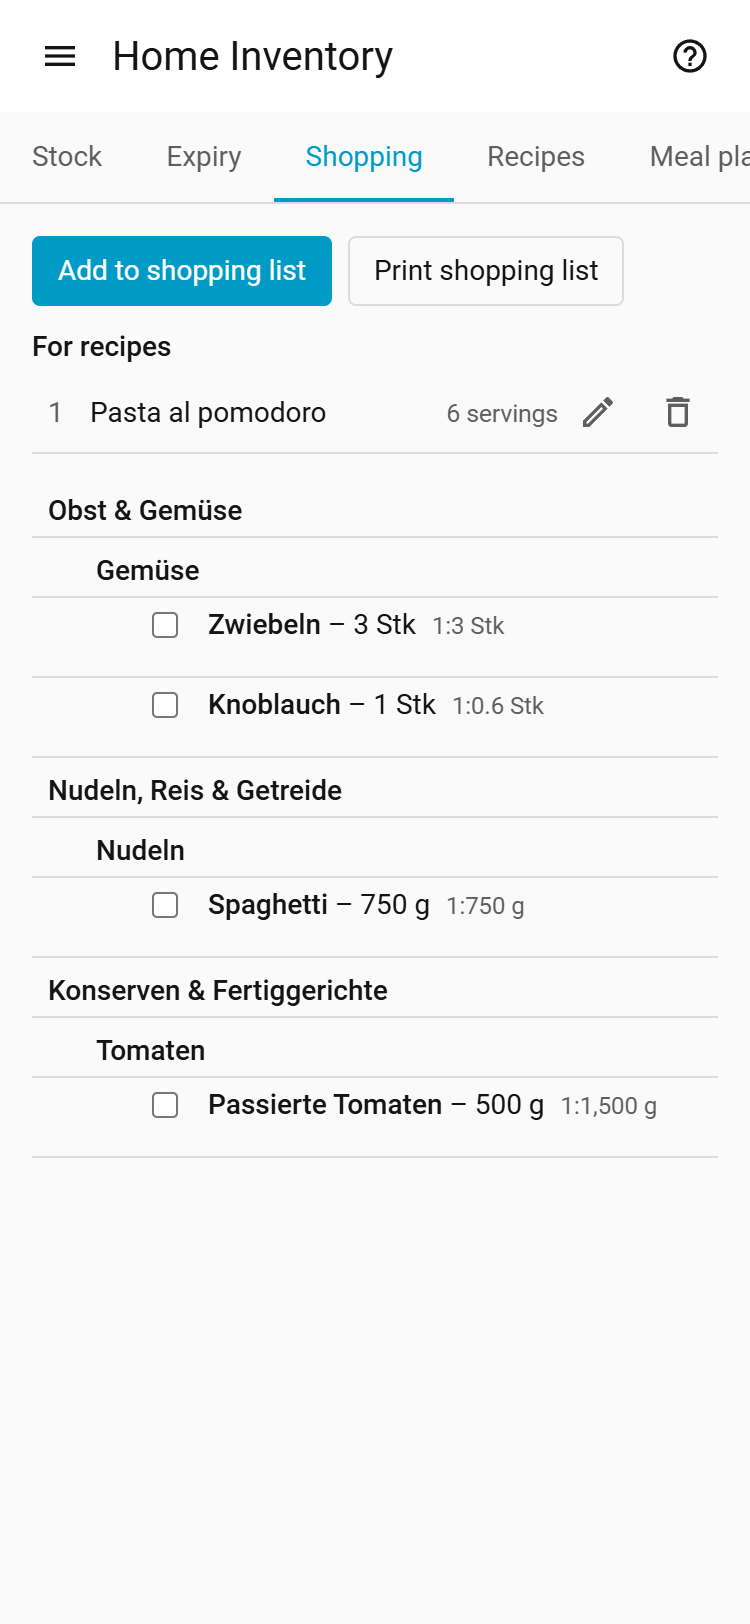
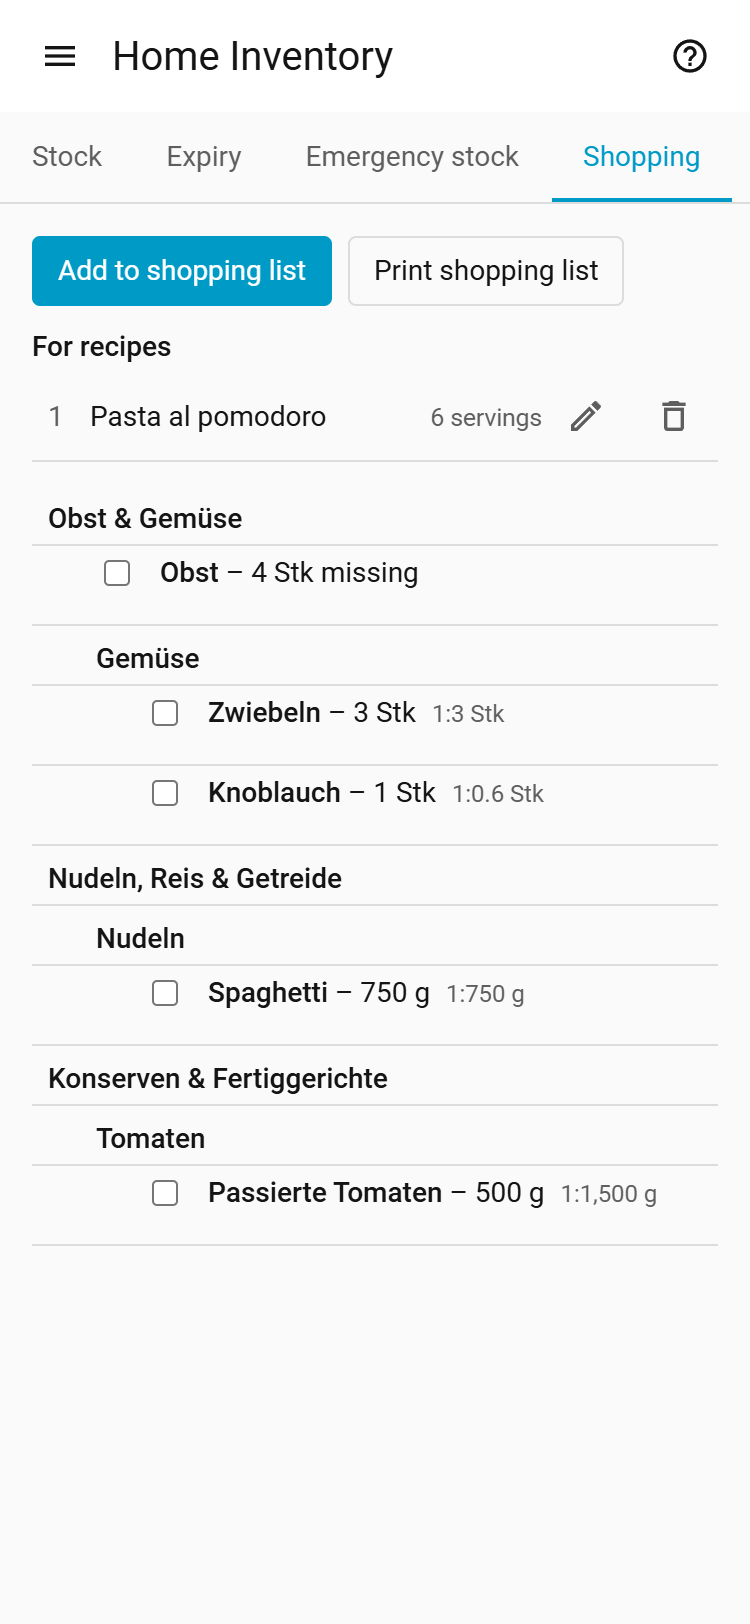
Add guide screenshots for stocktaking, history, emergency stock, settings and receipt import

diff --git a/frontend/e2e/screenshots.docs.ts b/frontend/e2e/screenshots.docs.ts
@@ -1,4 +1,4 @@
-import { apiPage, openPage, remove, ws } from "./helpers";
+import { apiPage, openTab, panelConfig, remove, ws } from "./helpers";
 import { expect, test, type Page } from "./fixtures";
 
 // Screenshots for the user guide (docs/images/<name>-<theme>.png), at phone width in light and
@@ -13,11 +13,21 @@ const day = (offset: number) => {
 };
 const monday = -((new Date().getDay() + 6) % 7); // the week view starts on Monday
 
+// exact tab name: "Stock" is also part of "Emergency stock"
+const openPage = async (page: Page, path: string, tab: string) => {
+  await page.goto(path);
+  await expect(page.getByRole("tab", { name: tab, exact: true })).toHaveAttribute(
+    "aria-selected",
+    "true",
+  );
+};
+
 type Row = { id: number; name: string };
 const products: number[] = [];
 const meals: number[] = [];
 let recipeId: number | undefined;
 let canningId: number | undefined;
+let receipt: unknown; // stubbed answer of the receipt reading (the real AI is never called)
 
 test.beforeAll(async ({ browser }) => {
   const api = await apiPage(browser);
@@ -65,6 +75,23 @@ test.beforeAll(async ({ browser }) => {
   await bookIn("Tomatenmark", "Tomatenmark", [200, "g"], 3, 400, cupboard);
   await bookIn("Passierte Tomaten", "Passierte Tomaten", [500, "g"], 2, 300, cupboard);
   await bookIn("Basmatireis", "Basmatireis", [1, "kg"], 1, 500, cupboard);
+
+  const line = (text: string, name: string, i: number, packages: number, category: string) => ({
+    text,
+    name,
+    packages,
+    product_id: products[i],
+    candidates: [{ id: products[i], name, brand: null, shelf_days: null }],
+    category_id: cat(category),
+  });
+  receipt = {
+    store: "Supermarkt",
+    items: [
+      line("VOLLMILCH 1,5%", "Vollmilch 1,5 %", 0, 2, "Milch"),
+      line("BASMATI REIS 1KG", "Basmatireis", 5, 1, "Basmatireis"),
+      line("TOMATENMARK 200G", "Tomatenmark", 3, 3, "Tomatenmark"),
+    ],
+  };
 
   const canning = (await ws(api, {
     type: "home_inventory/canning_save",
@@ -163,6 +190,8 @@ const TABS = {
     recipes: "Rezepte",
     plan: "Speiseplan",
     canning: "Haltbarmachen",
+    emergency: "Notvorrat",
+    settings: "Einstellungen",
   },
   en: {
     stock: "Stock",
@@ -171,6 +200,8 @@ const TABS = {
     recipes: "Recipes",
     plan: "Meal plan",
     canning: "Preserving",
+    emergency: "Emergency stock",
+    settings: "Settings",
   },
 };
 
@@ -181,7 +212,10 @@ for (const lang of ["de", "en"] as const)
       const tab = TABS[lang];
       const shot = (page: Page, name: string) =>
         page.screenshot({ path: `${OUT}/${name}-${lang}-${theme}.png`, animations: "disabled" });
-      test(`guide screenshots (${lang}, ${theme})`, async ({ page }) => {
+      test(`guide screenshots (${lang}, ${theme})`, async ({ page, wsStub }) => {
+        test.setTimeout(180_000); // the receipt step runs the OCR once
+        await page.context().route("**/cdn.jsdelivr.net/**", (route) => route.abort());
+        wsStub("home_inventory/receipt_read", receipt);
         await page.emulateMedia({ colorScheme: theme });
         // panel language, dates and numbers of the guide (HA keeps the language per browser)
         await page.addInitScript(
@@ -224,6 +258,67 @@ for (const lang of ["de", "en"] as const)
         await openPage(page, "/home_inventory/canning", tab.canning);
         await expect(page.getByText("Erdbeermarmelade").first()).toBeVisible();
         await shot(page, "canning");
+
+        // Stocktaking: the cupboard with one product counted.
+        await openPage(page, "/home_inventory/stock", tab.stock);
+        await page.getByTestId("stocktake-start").click();
+        await page.getByTestId("stocktake-location").selectOption({ label: "Vorratsschrank" });
+        await expect(page.getByTestId("stocktake-row").first()).toBeVisible();
+        await page.getByTestId("code-input").fill("Tomatenmark");
+        await page.getByTestId("code-input").press("Enter");
+        await expect(
+          page.getByTestId("stocktake-row").filter({ hasText: "Tomatenmark" }),
+        ).toContainText(/1\D+3/);
+        await shot(page, "stocktake");
+
+        await openPage(page, "/home_inventory/history", tab.stock);
+        await page.getByTestId("history-from").fill(day(0)); // only today's demo bookings
+        await expect(page.getByText("Spaghettoni")).toHaveCount(0);
+        await expect(page.getByTestId("history-action").first()).toBeVisible();
+        await shot(page, "history");
+
+        // Optional modules and external services are switched on the way the options would.
+        await openPage(page, "/home_inventory/stock", tab.stock);
+        await panelConfig(page, {
+          modules: ["shopping", "recipes", "plan", "canning", "emergency"],
+        });
+        await openTab(page, tab.emergency);
+        await expect(page.getByTestId("emergency-supply")).toBeVisible();
+        await shot(page, "emergency");
+
+        await openPage(page, "/home_inventory/settings/categories", tab.settings);
+        await expect(page.getByTestId("settings-row").first()).toBeVisible();
+        await shot(page, "settings");
+
+        await openPage(page, "/home_inventory/stock", tab.stock);
+        await panelConfig(page, { external: { receipt_import: true, ai_import: true } });
+        await page.getByTestId("mode-in").click();
+        await page.getByTestId("receipt-import").click();
+        await page.getByTestId("receipt-photo").evaluate(async (input: HTMLInputElement) => {
+          // a white receipt on a dark table, only to get through the scan; the answer is stubbed
+          const c = document.createElement("canvas");
+          c.width = 900;
+          c.height = 700;
+          const g = c.getContext("2d")!;
+          g.fillStyle = "#333";
+          g.fillRect(0, 0, c.width, c.height);
+          g.fillStyle = "#fff";
+          g.fillRect(100, 100, 700, 400);
+          g.fillStyle = "#000";
+          g.font = "28px monospace";
+          g.fillText("SUPERMARKT", 130, 180);
+          const blob = await new Promise<Blob>((done) => c.toBlob((b) => done(b!), "image/png"));
+          const files = new DataTransfer();
+          files.items.add(new File([blob], "bon.png", { type: "image/png" }));
+          input.files = files.files;
+          input.dispatchEvent(new Event("change"));
+        });
+        await expect(page.getByTestId("camera-apply")).toBeEnabled({ timeout: 60_000 });
+        await page.getByTestId("camera-apply").click();
+        await expect(page.getByTestId("receipt-preview")).toBeVisible();
+        await page.getByTestId("receipt-read").click();
+        await expect(page.getByTestId("receipt-row")).toHaveCount(3, { timeout: 90_000 });
+        await shot(page, "receipt");
       });
     }
   });

diff --git a/docs/guide.de.md b/docs/guide.de.md
@@ -131,6 +131,8 @@ flowchart LR
 
 ## 2a. Kassenbon importieren
 
+<p align="center"><picture><source media="(prefers-color-scheme: dark)" srcset="images/receipt-de-dark.png"><img src="images/receipt-de-light.png" alt="Dialog Kassenbon importieren mit drei erkannten Zeilen" width="300"></picture></p>
+
 Statt jedes Produkt einzeln zu scannen, buchst du einen ganzen Einkauf vom Kassenbon ein. Das geht
 nur, wenn eine KI eingerichtet ist (README, *KI*).
 
@@ -253,6 +255,8 @@ Welche Lagerorte Gefrierorte sind, legst du unter *Einstellungen → Lagerorte* 
 
 ## 4a. Inventur
 
+<p align="center"><picture><source media="(prefers-color-scheme: dark)" srcset="images/stocktake-de-dark.png"><img src="images/stocktake-de-light.png" alt="Inventur im Vorratsschrank mit einem gezählten Produkt" width="300"></picture></p>
+
 Stimmt der Bestand eines Schranks nicht mehr? Zähle ihn mit der Inventur nach.
 
 1. Im **Bestand** auf **Inventur** tippen, dann den **Lagerort** wählen. Die Liste zeigt alles, was laut
@@ -266,6 +270,8 @@ Stimmt der Bestand eines Schranks nicht mehr? Zähle ihn mit der Inventur nach.
    alles als Korrektur: Nicht Gescanntes wird ausgebucht, Gefundenes eingebucht.
 
 ## 4b. Verlauf
+
+<p align="center"><picture><source media="(prefers-color-scheme: dark)" srcset="images/history-de-dark.png"><img src="images/history-de-light.png" alt="Verlauf mit den Buchungen von heute" width="300"></picture></p>
 
 Wer hat wann was gebucht? **Bestand > Verlauf** listet jede Buchung, die neueste zuerst.
 
@@ -301,6 +307,8 @@ stehen oben, bei gleicher Zahl das Rezept mit mehr vorhandenen Zutaten. Ein Tipp
 > eine Benachrichtigung aufs Handy.
 
 ## 5a. Notvorrat
+
+<p align="center"><picture><source media="(prefers-color-scheme: dark)" srcset="images/emergency-de-dark.png"><img src="images/emergency-de-light.png" alt="Tab Notvorrat mit Soll, Ist und Reichweite je Gruppe" width="300"></picture></p>
 
 Der Tab **Notvorrat** (Modul *Notvorrat*, eingeschaltet unter *Einstellungen → Geräte & Dienste → Home Inventory → Konfigurieren → Module*) prüft den Bestand gegen den Notvorrat, den das Bundesamt für Bevölkerungsschutz und Katastrophenhilfe (BBK) empfiehlt: Lebensmittel und Getränke für **zehn Tage**, je Person.
 
@@ -650,6 +658,8 @@ Druckern die Baudrate. **Testbon drucken** prüft die Verbindung beim Speichern.
 Einrichtung (USB an Docker durchreichen) steht im [README](../README.de.md#bondrucker).
 
 ## 9. Kategorien, Produktarten und Vererbung
+
+<p align="center"><picture><source media="(prefers-color-scheme: dark)" srcset="images/settings-de-dark.png"><img src="images/settings-de-light.png" alt="Einstellungen mit der Kategorienliste" width="300"></picture></p>
 
 Der Kategoriebaum hat drei Ebenen: **Hauptkategorie → Kategorie → Produktart**, z. B.
 *Nudeln, Reis & Getreide → Nudeln → Spaghetti*. Produkte hängen meist an einer Produktart.

diff --git a/docs/guide.en.md b/docs/guide.en.md
@@ -133,6 +133,8 @@ flowchart LR
 
 ## 2a. Importing a receipt
 
+<p align="center"><picture><source media="(prefers-color-scheme: dark)" srcset="images/receipt-en-dark.png"><img src="images/receipt-en-light.png" alt="Import receipt dialog with three recognised lines" width="300"></picture></p>
+
 Instead of scanning every product, book in a whole shopping trip from its receipt. This needs an AI
 set up (README, *AI*).
 
@@ -252,6 +254,8 @@ Which locations are freezers is set under *Settings → Locations* with **Freeze
 
 ## 4a. Stocktaking
 
+<p align="center"><picture><source media="(prefers-color-scheme: dark)" srcset="images/stocktake-en-dark.png"><img src="images/stocktake-en-light.png" alt="Stocktaking of the cupboard with one product counted" width="300"></picture></p>
+
 Does the stock of a cupboard no longer match? Count it again with a stocktaking.
 
 1. In **Stock**, tap **Stocktaking**, then pick the **Location**. The list shows everything stored there
@@ -265,6 +269,8 @@ Does the stock of a cupboard no longer match? Count it again with a stocktaking.
    correction: what was not scanned is booked out, what was found is booked in.
 
 ## 4b. History
+
+<p align="center"><picture><source media="(prefers-color-scheme: dark)" srcset="images/history-en-dark.png"><img src="images/history-en-light.png" alt="History with today's bookings" width="300"></picture></p>
 
 Who booked what, and when? **Stock > History** lists every booking, newest first.
 
@@ -297,6 +303,8 @@ ingredients come first, then the one with more ingredients in stock. Tap one to 
 > soon), see the [README](../README.md#sensors), e.g. for a phone notification.
 
 ## 5a. Emergency stock
+
+<p align="center"><picture><source media="(prefers-color-scheme: dark)" srcset="images/emergency-en-dark.png"><img src="images/emergency-en-light.png" alt="Emergency stock tab with target, stock and days per group" width="300"></picture></p>
 
 The tab **Emergency stock** (module *Emergency stock*, switched on in *Settings > Devices & services >
 Home Inventory > Configure > Module*) checks the stock against the emergency supply recommended by the
@@ -654,6 +662,8 @@ baud rate. **Print a test receipt** checks the connection when you save. The tec
 into Docker) is in the [README](../README.md#receipt-printer).
 
 ## 9. Categories, product types and inheritance
+
+<p align="center"><picture><source media="(prefers-color-scheme: dark)" srcset="images/settings-en-dark.png"><img src="images/settings-en-light.png" alt="Settings with the category list" width="300"></picture></p>
 
 The category tree has three levels: **main category → category → product type (Produktart)**,
 e.g. *Nudeln, Reis & Getreide → Nudeln → Spaghetti*. Products usually belong to a product type.
